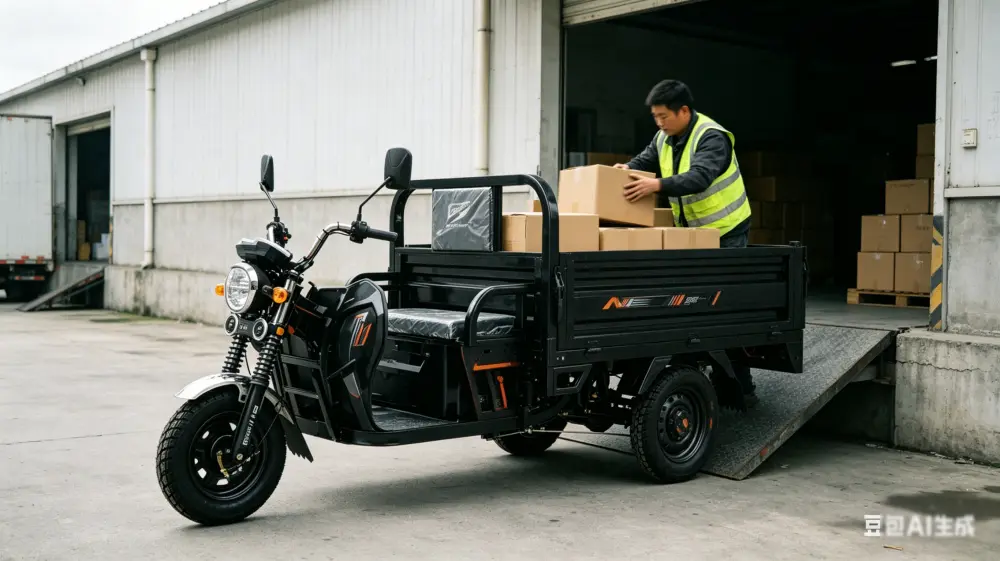
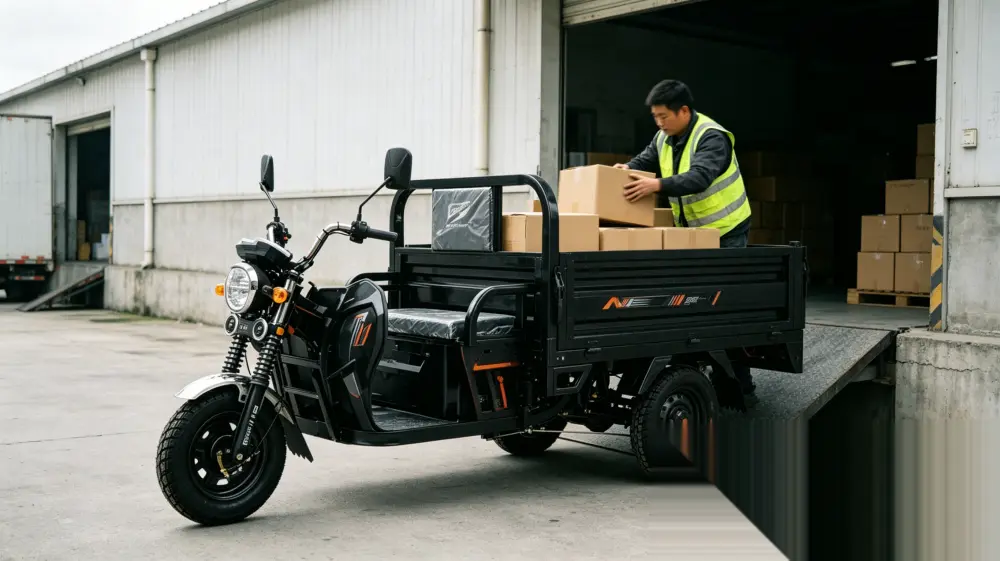
Improve watermark removal with NS method

Changed region(s): [[0.651, 0.7576, 1.0, 1.0]]

diff --git a/.sisyphus/drafts/homepage-ui-fix.md b/.sisyphus/drafts/homepage-ui-fix.md
@@ -1,0 +1,22 @@
+# 主页 UI 改进计划
+
+## 当前问题
+- Why Choose EcoMoto: 简单白卡片，单调无重点
+- Application Scenarios: 三个文字链接，无图片，很单调
+
+## 改进方案
+
+### 1. Why Choose EcoMoto
+- 添加图标 (heroicons)
+- 添加数字/统计突出重点
+- 使用 teal 主题色强调
+
+### 2. Application Scenarios
+- 添加背景图片
+- 添加悬停效果
+- 突出关键数据
+
+## 可用图片
+- urban-logistics.webp
+- passenger-transport.webp
+- scenic-shuttle.webp